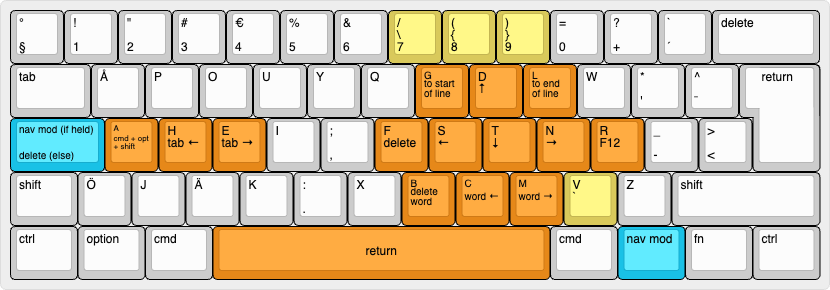
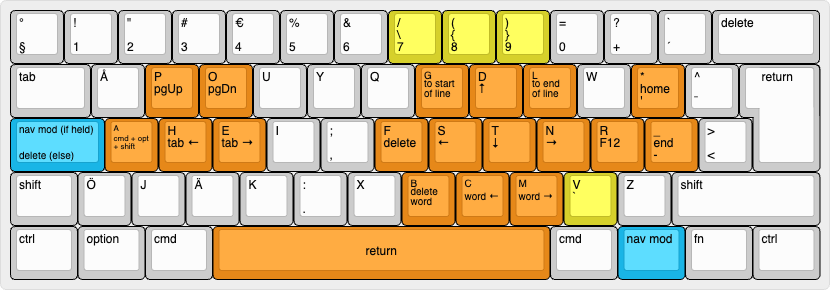
Add pgUp, pgDn, home, end to nav. layer

diff --git a/README.md b/README.md
@@ -126,6 +126,10 @@ To facilitate navigating in texts (and other applications where the arrow keys c
 | `H`                    | go to previous tab (e.g. in browser)  | `ctrl` + `tab`             |
 | `E`                    | go to next tab (e.g. in browser)      | `shift` + `ctrl` + `tab`   |
 | `R`                    | `F12`                                 | `F12`                      |
+| `P`                    | page up                               | `pgUp`                     |
+| `O`                    | page down                             | `pgDn`                     |
+| `'`                    | home                                  | `home`                     |
+| `-`                    | end                                   | `end`                      |
 | `space`                | enter                                 | `return`                   |
 | `A`                    | modifier combination\*                | `cmd` + `option` + `shift` |
 
